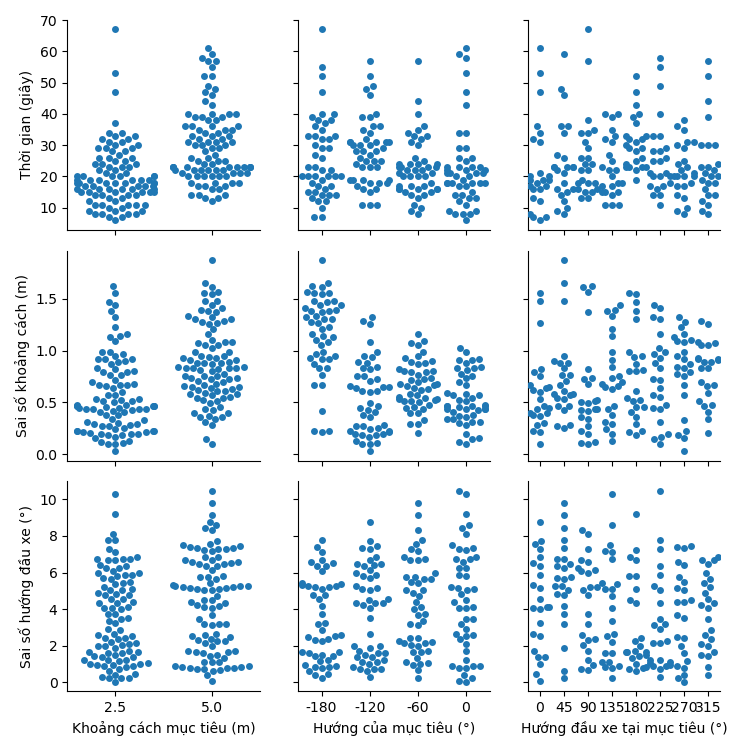
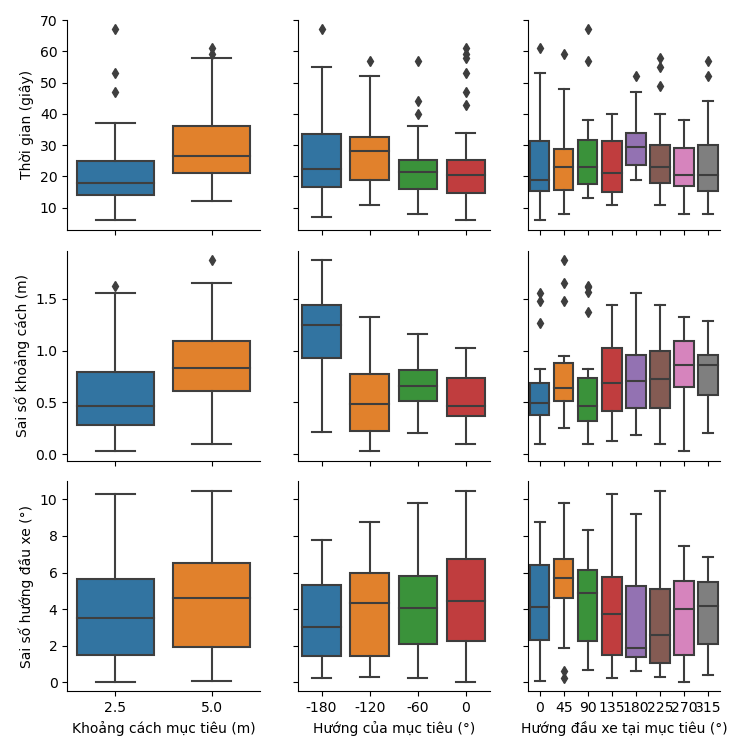
patch ackermann drive

diff --git a/src/ackermann_drive_controller/src/ackermann_drive_controller.cpp b/src/ackermann_drive_controller/src/ackermann_drive_controller.cpp
@@ -266,13 +266,13 @@ controller_interface::return_type AckermannDriveController::update(
   }
 
   // Compute wheels velocities:
-  const double velocity_left =
+  double velocity_left =
     (linear_command - angular_command * wheel_separation / 2.0) / left_wheel_radius;
-  const double velocity_right =
+  double velocity_right =
     (linear_command + angular_command * wheel_separation / 2.0) / right_wheel_radius;
 
   // Compute steering angles
-  double alpha1 = 0, alpha2 = 0;
+  static double alpha1 = 0, alpha2 = 0;
   if (angular_command != 0 && linear_command != 0)
   {
     alpha1 = atan(steer.wheel_base*angular_command/(linear_command - angular_command*steer.pivot_distance/2));
@@ -289,19 +289,23 @@ controller_interface::return_type AckermannDriveController::update(
   // Limit alpha1 and alpha2 rate
   if (alpha1 - left_steering_angle > da_limit)
   {
+    velocity_left *= left_steering_angle/alpha1;
     alpha1 = left_steering_angle + da_limit;
   }
   else if (alpha1 - left_steering_angle < -da_limit)
   {
+    velocity_left *= left_steering_angle/alpha1;
     alpha1 = left_steering_angle - da_limit;
   }
 
   if (alpha2 - right_steering_angle > da_limit)
   {
+    velocity_right *= right_steering_angle/alpha2;
     alpha2 = right_steering_angle + da_limit;
   }
   else if (alpha2 - right_steering_angle < -da_limit)
   {
+    velocity_right *= right_steering_angle/alpha2;
     alpha2 = right_steering_angle - da_limit;
   }
 

diff --git a/scripts/test.py b/scripts/test.py
@@ -1,0 +1,20 @@
+import rclpy
+
+from rclpy.node import Node
+from geometry_msgs.msg import PoseStamped
+from geometry_msgs.msg._quaternion import Quaternion
+from nav2_simple_commander.robot_navigator import BasicNavigator, TaskResult
+
+rclpy.init()
+
+nav = BasicNavigator()
+
+initial_pose = PoseStamped()
+initial_pose.header.frame_id = 'map'
+initial_pose.header.stamp = nav.get_clock().now().to_msg()
+nav.setInitialPose(initial_pose)
+
+pose = PoseStamped()
+pose.header.frame_id = 'map'
+pose.header.stamp = nav.get_clock().now().to_msg()
+path = nav.

diff --git a/scripts/analyze_data.py b/scripts/analyze_data.py
@@ -48,7 +48,7 @@ for i, col in enumerate(input_factors):
 df1 = df[df["Thành công"]]
 
 g = sns.PairGrid(df1, x_vars=input_factors, y_vars=responds)
-g.map(sns.swarmplot)
+g.map(sns.boxplot)
 # plt.savefig("figures/figure.png", bbox_inches='tight',dpi=100)
 plt.savefig("figures/figure.png")
 plt.clf()
